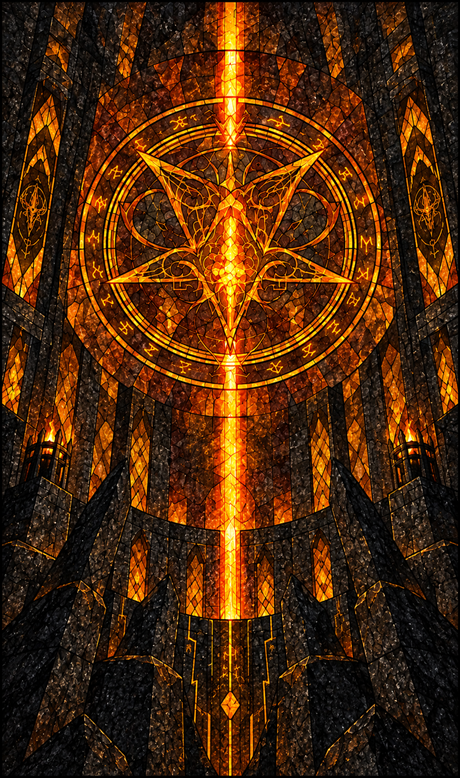
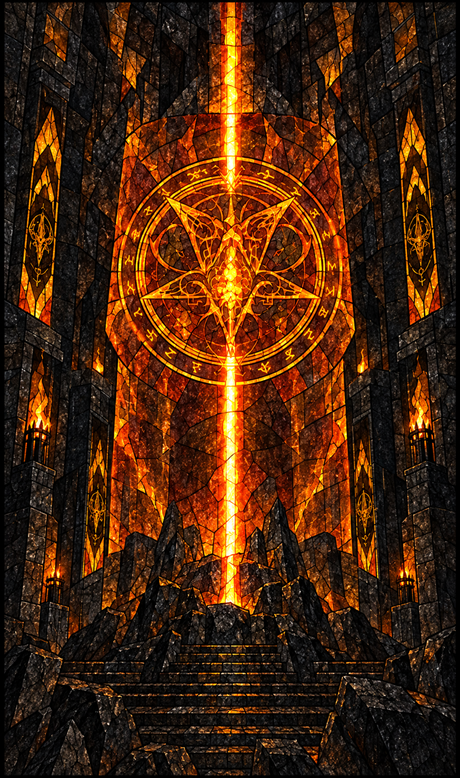
Show TNT04CN exterior before the intro ritual chamber

diff --git a/_docs/utnt/NEUERUNGEN.md b/_docs/utnt/NEUERUNGEN.md
@@ -21,7 +21,7 @@
 - **Reforged menu artwork:** pixel-art Quake lettering, amber rune bands and a central seal, with vertically centered skull seals and softly fading amber glow; title with clean alpha edges and transparent selectors at native and double resolution. [Details](UTNT_MENU_LOGO.md)
 - **Menus and class selection:** illustrated class cards, organized Remaster options in both native menus with restored ability/environment controls, three visual presets, bronze-and-parchment colors with gold selection, a matching menu cursor, darker backgrounds and consistent BIGFONT text with concise episode translations. [Details](UTNT_USABILITY.md), [Refinements](UTNT_TESTER_FEEDBACK.md)
 - **Chapter reader:** self-paced pages with larger body text across chapter and intro dialogs, opaque chapter illustrations in a two-thirds text / one-third image layout, matching bronze frames, a staged sharp-to-soft background reveal, smooth image crossfades, original voice recordings, saved reading progress and independent cooperative reading; shared, skippable TNT04A intro. [Chapters](UTNT_INTERMISSION.md), [Intro](UTNT_INTRO_CHAPTER.md)
-- **Stained-glass chapters:** all sixteen chapter illustrations and two dedicated TNT04A intro portraits recreated in the approved dark, weathered glass style, with full rectangular artwork and matching proportions. [Details](UTNT_STAINED_GLASS.md)
+- **Stained-glass chapters:** all sixteen chapter illustrations and two dedicated TNT04A intro portraits recreated in the approved dark, weathered glass style, with full rectangular artwork and matching proportions; the intro moves from the TNT04CN exterior to the ritual chamber. [Details](UTNT_STAINED_GLASS.md)
 - **Unified transitions:** narration, artwork and saved chapter/campaign results; distinct solo plaques and cooperative comparisons, including combat, weapon and ability use, collected health/armor, tied leaders and team readiness; black fades keep gameplay overlays hidden. [Details](UTNT_INTERMISSION.md)
 - **Cinematic credits:** compact animated bronze cards, Remaster contributor credits, an AI-assistance acknowledgement and personal dedications, smoother pacing, camera transitions and an uninterrupted final flight. [Details](UTNT_CREDITS.md)
 - **Ending atmosphere:** “Ash & Ember” color treatment, grain and stable depth of field; storm sky, glowing crater fracture and an amber lightning-and-spark finale. [Credits](UTNT_CREDITS.md), [Sky](UTNT_ENDMAP_SKY.md)

diff --git a/_docs/utnt/UTNT_STAINED_GLASS.md b/_docs/utnt/UTNT_STAINED_GLASS.md
@@ -65,9 +65,11 @@ tutnt/.codex/logs/interms-stained-glass-packed.log.
 
 ## TNT04A intro portraits
 
-I_INTROA and I_INTROB are two dedicated opaque 460 x 778 portraits of the Source
-ritual chamber, replacing widescreen background resources in the reader's right
-column. A shows the towering chamber; B moves closer to the looming amber seal.
+I_INTROA and I_INTROB are two dedicated opaque 460 x 778 portraits, replacing
+widescreen background resources in the reader's right column. A adapts the user's
+TNT04CN screenshot: a floating basalt fortress beneath a fiery storm opening,
+with an amber beam, suspended rocks and a lava-edged platform. B is the unchanged
+former first portrait of the towering Source ritual chamber and amber seal.
 Both use I_06A as the stained-glass style reference. The original TNTE4 backgrounds
 are preserved. The shared reader fits the illustrations proportionally and draws
 the same bronze edges as the text plaque, with the shared 2:1 column split.
@@ -75,7 +77,9 @@ the same bronze edges as the text plaque, with the shared 2:1 column split.
 The built-in Imagegen tool authored both illustrations. Production export applies
 uniform bicubic downsampling and a small central crop to match 460:778 exactly;
 the sigil and architecture are never stretched. Local masters are retained under
-tutnt/.codex/work/intro-stained-glass/.
+tutnt/.codex/work/intro-stained-glass/ (chamber) and
+tutnt/.codex/work/intro-stained-glass-exterior/ (fortress). The user screenshot
+is retained under tutnt/.codex/references/intro-stained-glass/TNT04CN.png.
 [Intro prompts](../../tools/artwork/intro-stained-glass/prompts.json) and
 [manifest](../../tools/artwork/intro-stained-glass/manifest.json) record provenance.
 
@@ -85,3 +89,9 @@ Both portraits and the intermediate dissolve were visually reviewed. Resource
 dimensions, shared columns, reader save/load and host skip cleanup passed.
 Local evidence: tutnt/.codex/validation/intro-stained-glass/runtime.json and
 assets.json; screenshots: tutnt/.codex/logs/intro-glass-*.png.
+
+The exterior-first revision passed 38 UZDoom assertions with the German reader
+at 1280 x 720; both displayed positions were visually reviewed. SHA-256 confirms
+that position B is byte-identical to the former A. Evidence:
+tutnt/.codex/validation/intro-stained-glass-exterior/ and
+tutnt/.codex/logs/intro-glass-exterior-a.png / intro-glass-exterior-b.png.

diff --git a/_docs/utnt/UTNT_INTRO_CHAPTER.md b/_docs/utnt/UTNT_INTRO_CHAPTER.md
@@ -3,8 +3,9 @@
 TNT04A now uses UTNTChapterState and UTNTChapterUI, the same saved reader as INTERMAP.
 The reader wraps both existing localized narration passages (UTNT_VOICE_038/039),
 uses the shared UI scale/cache, and displays dedicated I_INTROA/I_INTROB portraits.
-These opaque 460 x 778 stained-glass illustrations recompose the ritual chamber
-for the same 2:1 text/image columns and bronze frame used by the chapter reader.
+These opaque 460 x 778 stained-glass illustrations show the TNT04CN fortress
+exterior first, then the original first portrait of the ritual chamber,
+using the same 2:1 text/image columns and bronze frame used by the chapter reader.
 The image fits proportionally without runtime stretching or cropping. The original
 TNTE4_1 remains the cinematic background; the existing 170-tic image-change delay
 and 70-tic A/B dissolve remain unchanged. See [artwork](UTNT_STAINED_GLASS.md).
